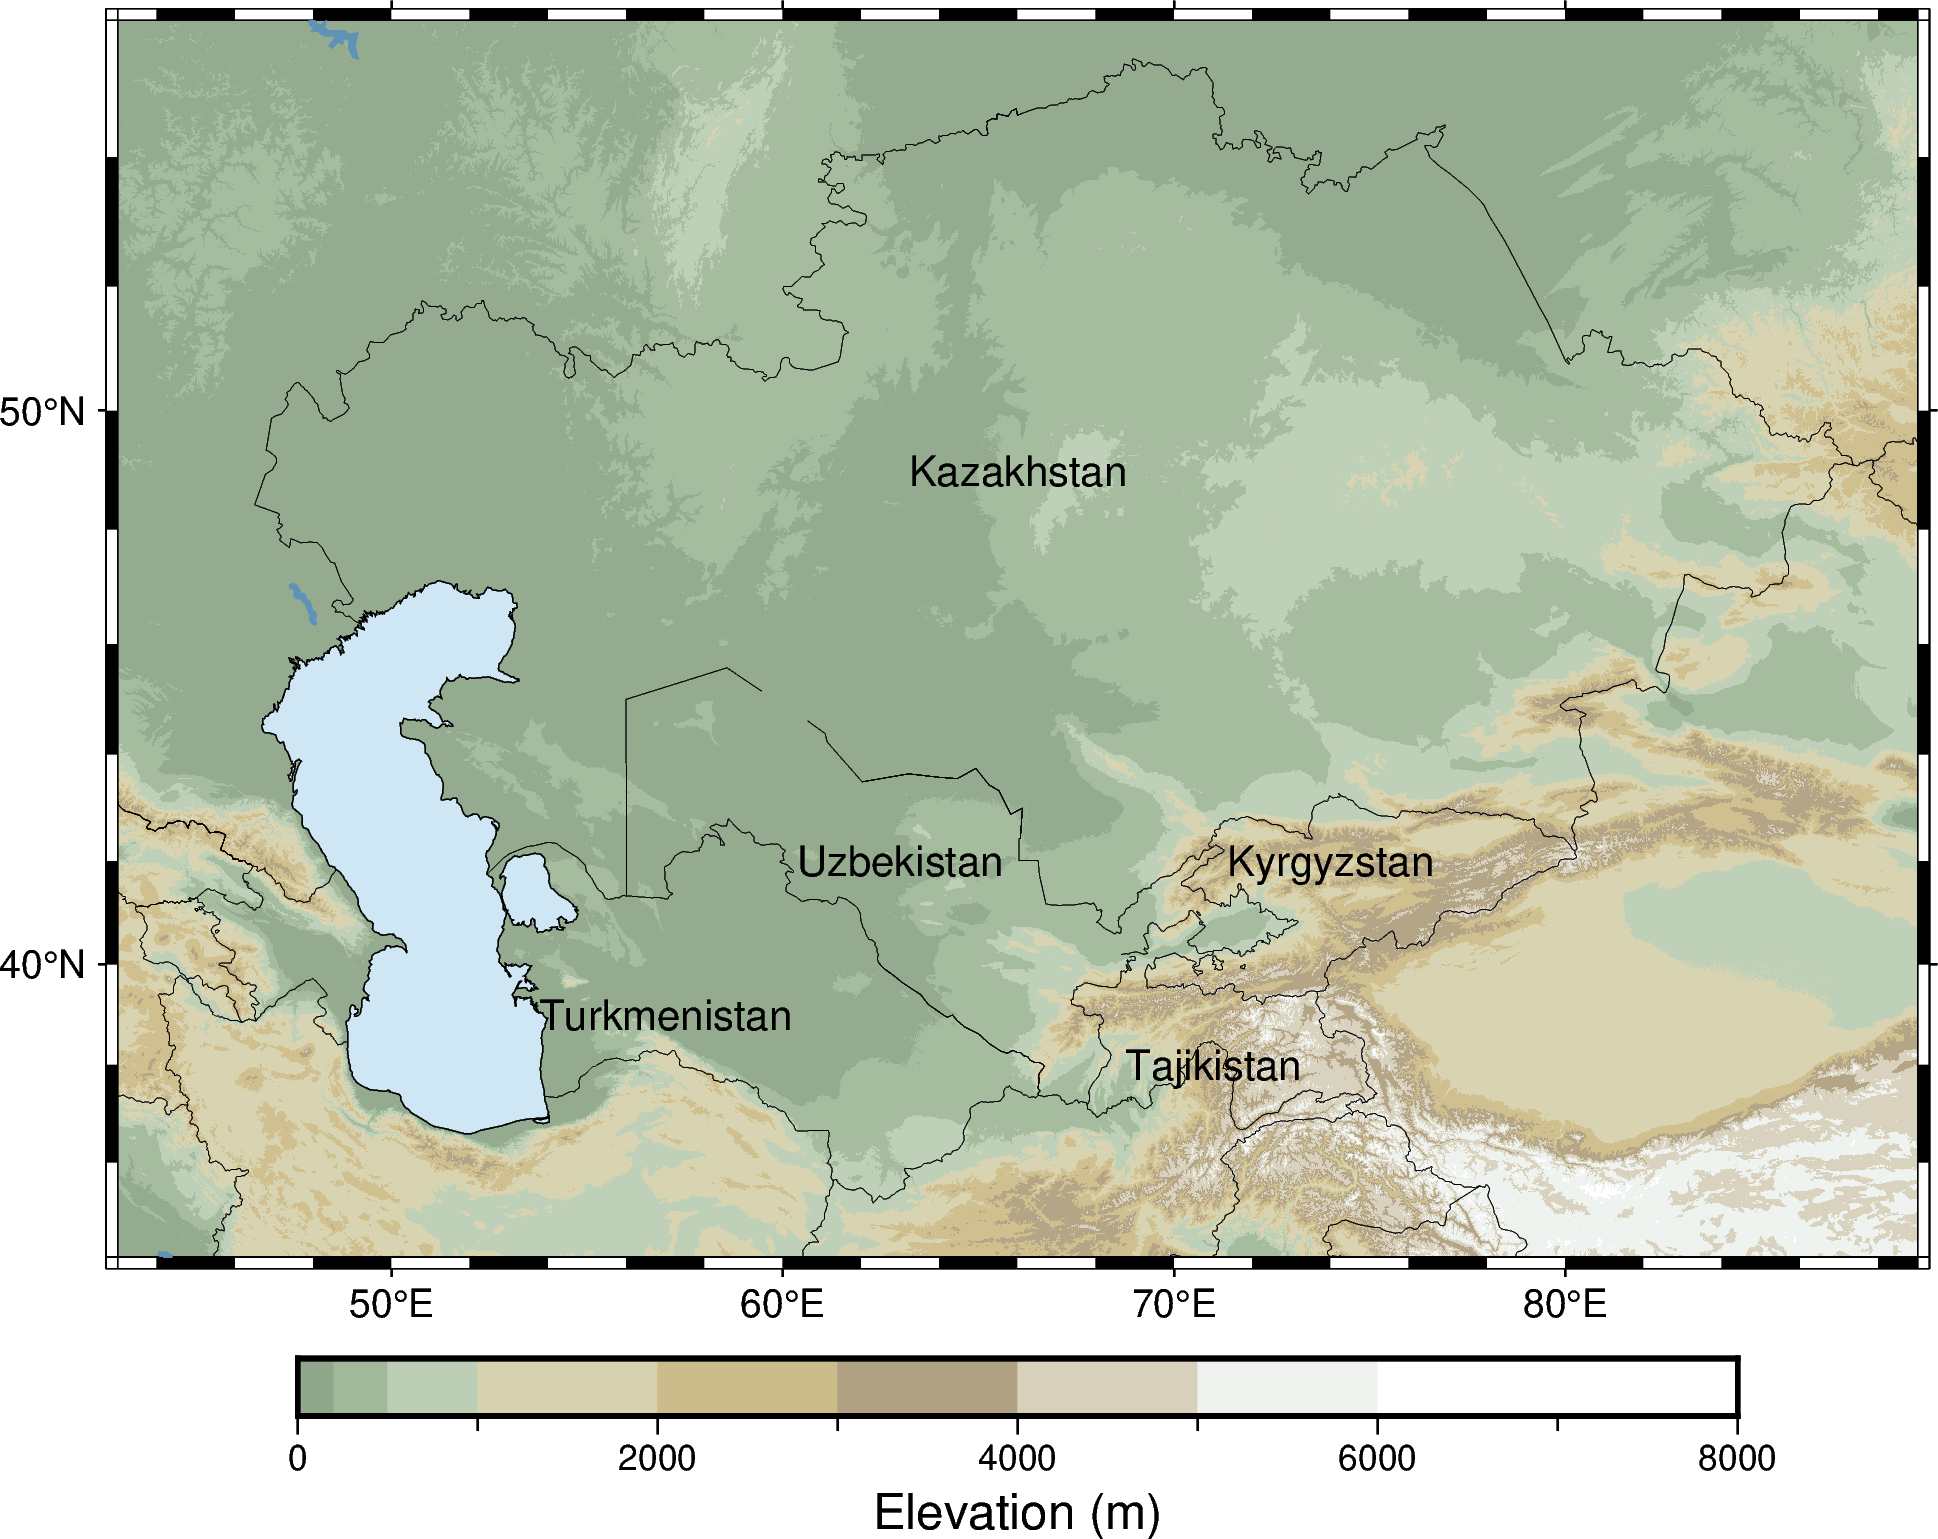
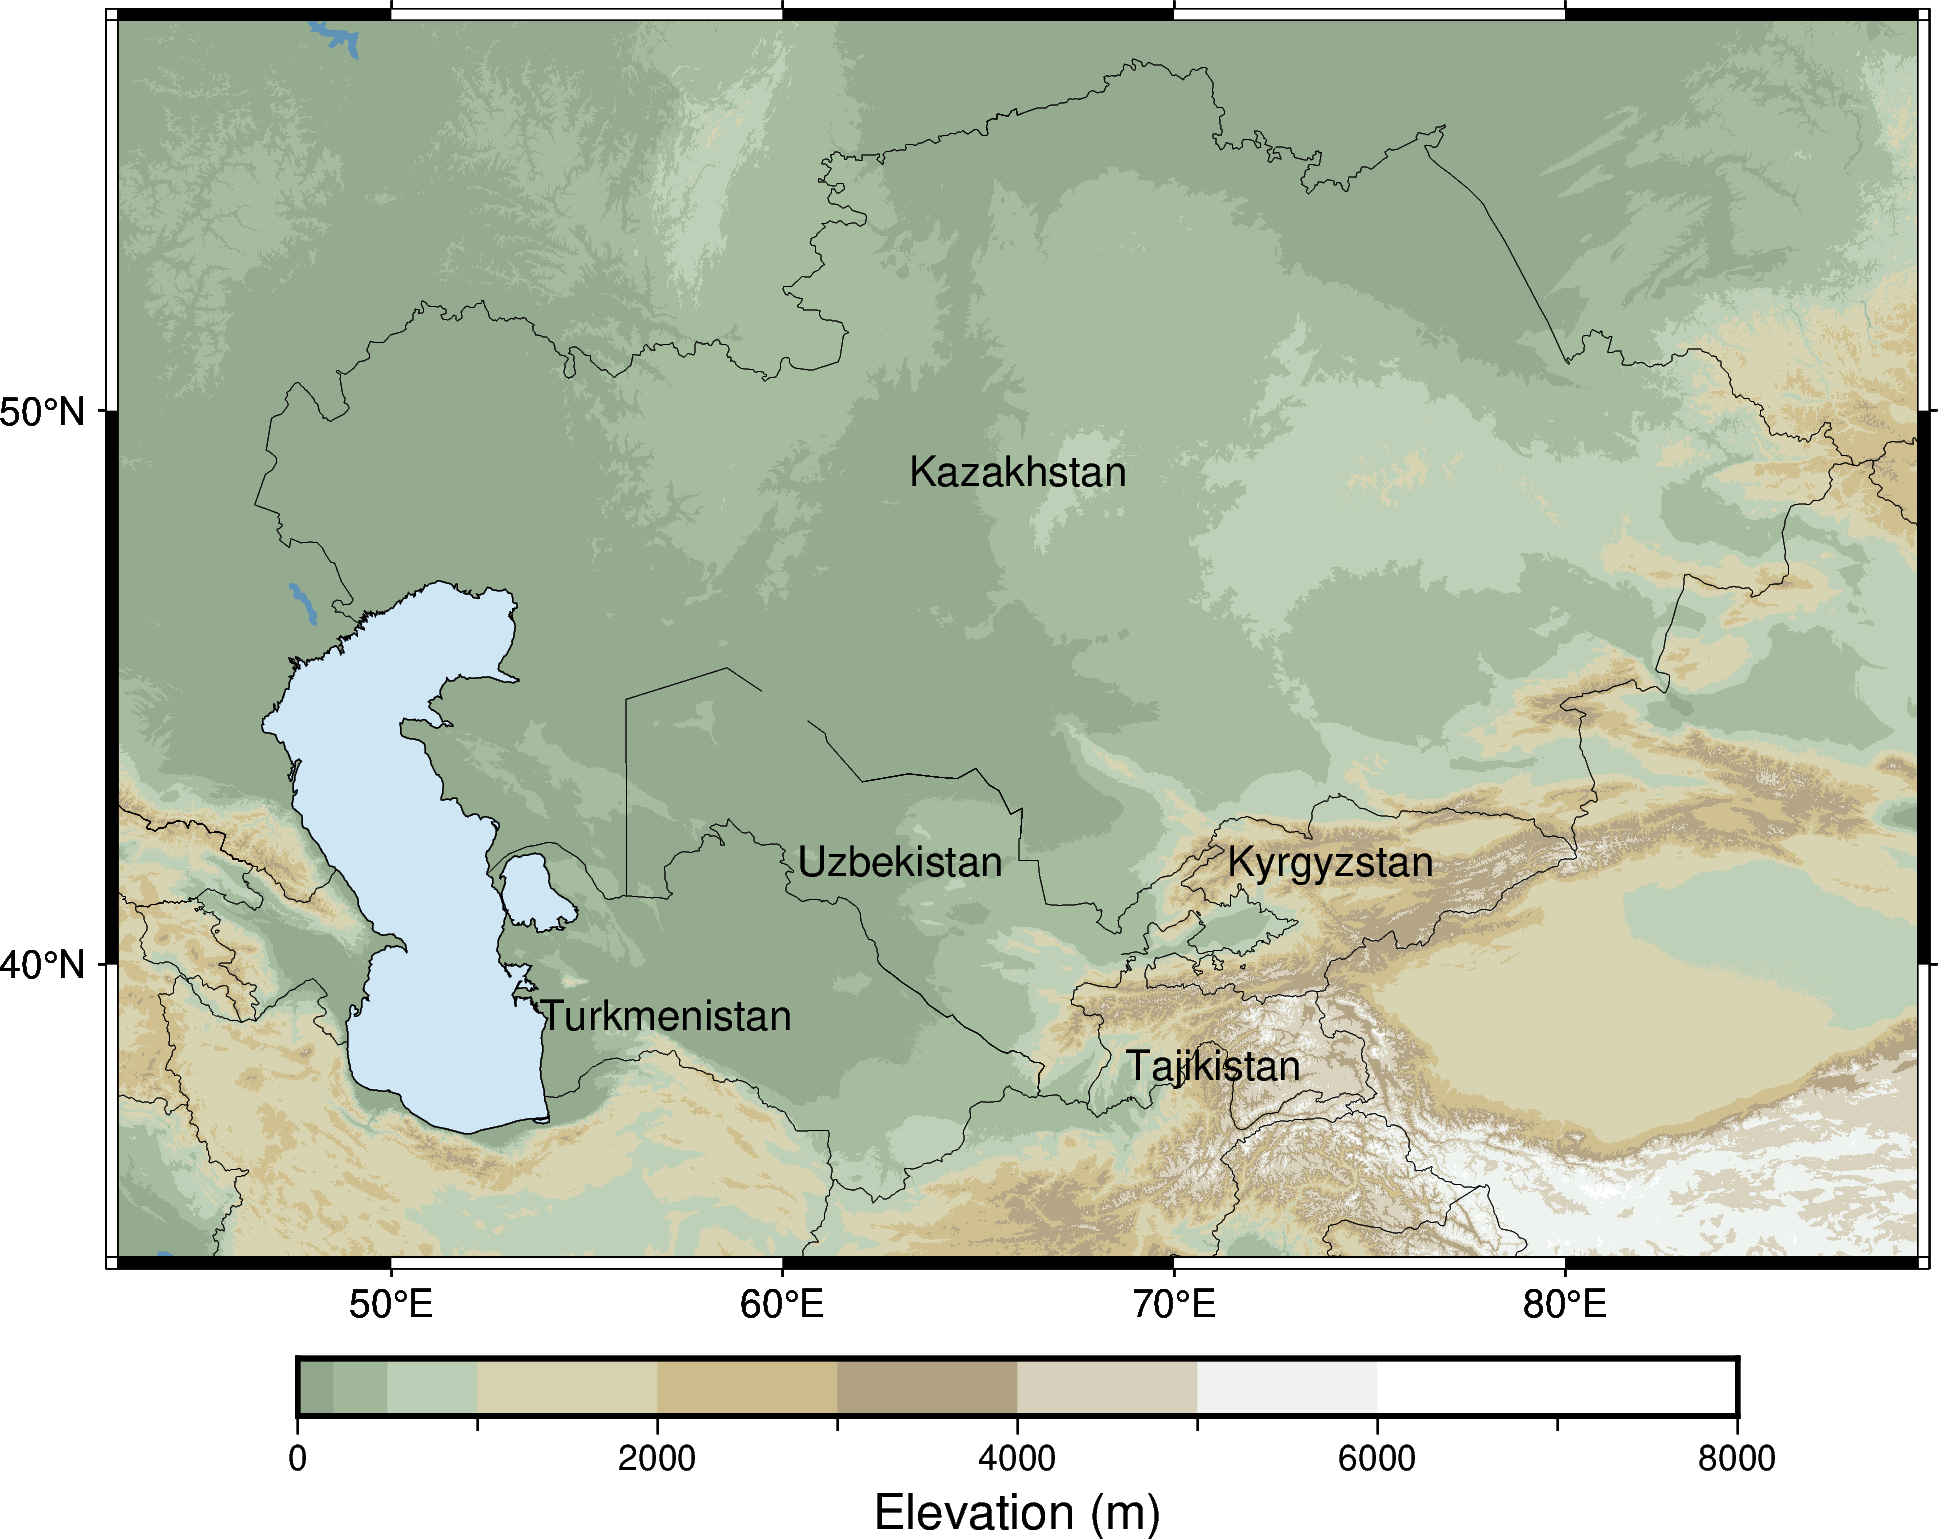
minimalist boarder

diff --git a/central_asia.py b/central_asia.py
@@ -52,7 +52,7 @@ def plot_topo_only_land():
         region=[minlon, maxlon, minlat, maxlat],
         projection="M6i",
         shading=0.05,
-        frame=True
+        frame='a'
     )
 
     # Paint large water bodies in the specified color
@@ -66,7 +66,7 @@ def plot_topo_only_land():
         water="#cfe6f5",  # Water bodies color
         lakes="#cfe6f5",
         area_thresh="90000",  # skip small lakes
-        frame=False
+        frame="a"
     )
 
     # Add a color bar with custom elevation labels
